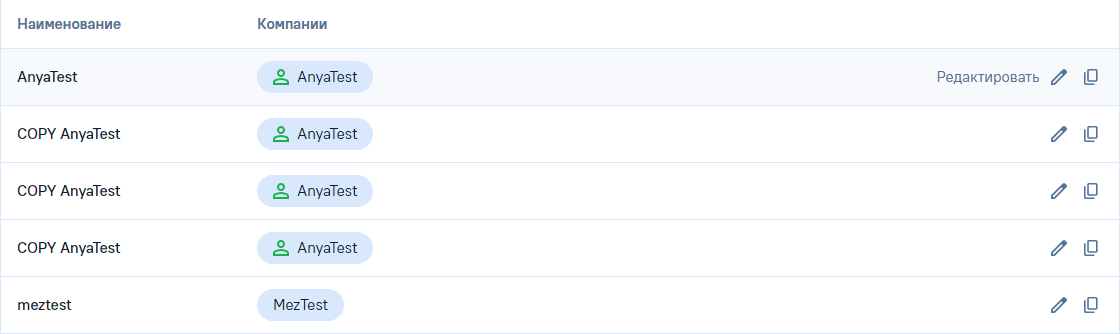
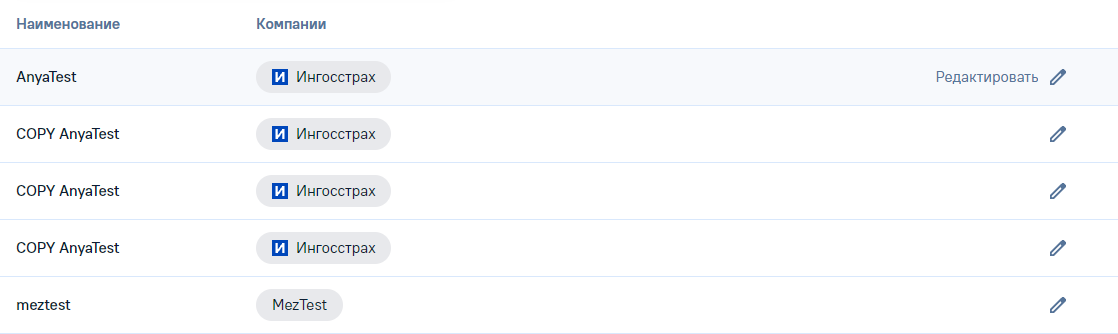
Такт 26: документы — «Статусы» после приёмки, правило глифов копирования
- page-statuses.md: решения такта 26, логотипы компания → бренд → файл,
  расхождения (мастера нет, курсор метки), замеры, кадры
- naming.md: нейтральная метка, изображение, align="start" в каноне;
  copy — буфер обмена, file_copy — дублирование сущности
- CLAUDE.md: оснастка ?values=demo; handoff.md, chat-protocol.md — такт 26

diff --git a/docs/page-statuses.md b/docs/page-statuses.md
@@ -1,19 +1,23 @@
 # Стенд «Статусы»
 
-Собран 2026-09-15, тактом 24. Роут `/statuses`, каркас — общий layout `admin`, пункт сайдбара
-«Администрирование → Статусы».
+Собран 2026-09-15 тактом 24, правлен тактом 26 после приёмки владельца. Роут `/statuses`, каркас —
+общий layout `admin`, пункт сайдбара «Администрирование → Статусы».
 
 Список статусных моделей справочника по канону типовой страницы-таблицы (`docs/naming.md`, «Такт 20:
-типовая страница-таблица админки (канон)» с правками тактов 21–24). Форма редактирования статусной
+типовая страница-таблица админки (канон)» с правками тактов 21–26). Форма редактирования статусной
 модели — блоки статусов, цвета, карта переходов, чек-лист компаний — отдельный стенд позже.
 
 | 1440 | 2560 |
 |---|---|
 | ![Статусы, 1440](page-statuses-1440.png) | ![Статусы, 2560](page-statuses-2560.png) |
 
-| Поиск «касса» | Наведение на строку |
+| Поиск «касс» | Наведение на строку |
 |---|---|
-| ![Поиск «касса»](page-statuses-search.png) | ![Наведение на строку](page-statuses-action-hover.png) |
+| ![Поиск «касс»](page-statuses-search.png) | ![Наведение на строку](page-statuses-action-hover.png) |
+
+| `?values=demo`, 1440 | `?values=demo`, 2560 |
+|---|---|
+| ![40 компаний, 1440](page-statuses-values-1440.png) | ![40 компаний, 2560](page-statuses-values-2560.png) |
 
 ## Источник
 
@@ -21,7 +25,7 @@
 |---|---|
 | состав страницы и данные | **прод**, страница «Статусы»: заголовок, «Добавить», таблица Наименование · Компании · «Изм»; компании столбиком, у части — логотип-картинка |
 | макет | **нет** — в Figma страница не нарисована |
-| вид | канон типовой страницы-таблицы; всё, что канон не покрывал, — решения владельца такта 24 и решения сборки ниже |
+| вид | канон типовой страницы-таблицы; всё, что канон не покрывал, — решения владельца тактов 24 и 26 и решения сборки ниже |
 
 Расхождения с продом дефектами не считаются: вид берётся из канона. В таблицу расхождений идут только
 расхождения с мастерами ДС и решения, принятые сборкой за отсутствием мастера.
@@ -32,17 +36,22 @@
 |---|---|---|---|
 | A | страница и шапка | `/statuses` на `admin.vue`, активный пункт «Статусы», крошки «Главная › Статусы», заголовок «Статусы». Шапка по канону: поиск 440 слева «Поиск по наименованию и компании», «Добавить» справа, одна ось, без счётчика | решение владельца; канон такта 20 |
 | B | колонки | Наименование · Компании · действия без заголовка (`TABLE_ROW_ACTIONS_COLUMN`). **Колонки Id нет** — у статусной модели нет идентификатора в системе | решение владельца; факт владельца (нет Id) |
-| C | наименование | блок идентичности **без эмблемы**: `TableCellIdentity` без `icon`, имя 15/20 medium | решение владельца; эмблема стала необязательной в компоненте |
-| D | компании | многозначная ячейка `TableCell variant="values"`: метки `Chip trailing="none"` инлайном с переносом, зазор 8, без потолка и без «+N»; порядок — как пришёл из данных | решение владельца, закрывает вопрос 34 вариантом (а); сознательное отклонение от референса Mobbin 6/6 |
-| D | логотипы | глиф Material Symbols 16 в ведущем слоте метки, окрашен рампой расширенной палитры; без логотипа — метка без иконки и без заглушки | решение владельца; палитра — по явному указанию, «различает, а не сообщает» |
+| C | наименование | блок идентичности **без эмблемы**: `TableCellIdentity` без `icon`, имя 15/20 medium. Вес имени принят глазом, без замера (такт 26) | решение владельца; эмблема стала необязательной в компоненте |
+| D | компании | многозначная ячейка `TableCell variant="values"`: метки инлайном с переносом, зазор 8, без потолка и без «+N»; порядок — как пришёл из данных | решение владельца, закрывает вопрос 34 вариантом (а); сознательное отклонение от референса Mobbin 6/6 |
+| D | метка компании | **`Chip variant="neutral"`**: подложка `muted`, текст `foreground`, наведения, роли и `tabindex` нет; геометрия и типографика мастера `badge` `747:2464` — 32, радиус 24, паддинг 16, 15/20 Regular (такт 26) | решение владельца |
+| D | мастер метки | статичный кандидат Атома `Badge` `913:8279` рассмотрен и отклонён: плашка поверх медиа (`Announcement`, `Slideshow`, `LightBox`), высота 16/24, кегль 10/13 вне шкалы кита. `ButtonTag` `256:3601` (`Tag`) — кнопка, прецедент такта 24 | решение владельца, такт 26 |
+| D | логотипы | **изображение 16×16** в ведущем месте метки, проп `image`, `object-fit: contain`, `alt=""`; до подписи 8. Компания без знака — метка без изображения. Демо-знаки — trace-logos.ru, раздел «Логотипы» ниже (такт 26) | решение владельца: на проде это логотипы, загруженные компаниями; привязка брендов — рекомендация чата |
 | D | пустой набор | пустая ячейка без «—», высота как у строки с одной меткой | решение сборки: прецедента пустой ячейки таблицы в «Моих осмотрах» нет |
 | E | поиск | подстрока имени модели **или** любой её компании, без регистра, до пагинации, смена запроса сбрасывает страницу; совпавшие метки не подсвечиваются | решение владельца; правила канона |
-| F | действия | подпись «Редактировать» → карандаш → **«Сделать копию»** (`copy`, тултип) в правом слоте; клик по строке = редактирование, обработчиков нет намеренно | решение владельца; «Сделать копию» — факт прода (форма) |
+| F | действия | **только карандаш**: подпись «Редактировать» по наведению → карандаш; правый слот 24×24 зарезервирован пустым. «Сделать копию» живёт в форме справочника. Клик по строке = редактирование, обработчиков нет намеренно | решение владельца, такт 26 (пункт F такта 24 снят); резерв слота — правило такта 22 |
 | G | подвал | `TableFooter`: «1 – 17 из 17» при размере 25 | канон |
-| H | оснастка | `?q=` и `?rows=` как на «Типах схем осмотров»; `?actions=demo` не нужен | решение владельца |
+| H | оснастка | `?q=` и `?rows=` как на «Типах схем осмотров»; `?values=demo` — у «Особого словаря» 40 компаний по кругу из всех 19 имён демо-данных (такт 26) | решение владельца |
+| I | выравнивание | в строке, которую растит «Компании», ячейки «Наименование» и действий стоят у первой линии меток: `TableCell align="start"`, высота 56 сохраняется | решение владельца, такт 26; канон `naming.md`, «E. Многозначная ячейка» |
 
-**Первая страница с реальным вторичным действием.** На «Типах схем осмотров» правый слот колонки
-действий заполнялся только в демо; здесь «Сделать копию» стоит у всех строк — это действие из формы прода.
+**Вторичного действия на списке нет.** Такт 24 ставил «Сделать копию» в правый слот колонки действий;
+такт 26 его снял: копия статусной модели — действие формы справочника. Правый слот остаётся
+зарезервированным, карандаш стоит на X 1339 — как на «Типах схем осмотров» в том же окне. Глиф для
+дублирования сущности на будущее — `file_copy` (`naming.md`, «Идентификатор со службой копирования»).
 
 ## Компоненты
 
@@ -61,50 +70,66 @@
 | `icon` необязателен | `table/TableCellIdentity.vue` | блок идентичности без эмблемы — только имя, без пустого бокса |
 | пункт «Статусы» подсвечивается | `layouts/admin.vue` | `:selected` по адресу `/statuses` |
 
-Витрина не менялась: `Chip trailing="none"` на ней не используется, API слотов у `Chip` только расширен.
+### Расширено тактом 26
+
+| Что | Где | Зачем |
+|---|---|---|
+| ось `variant: default \| neutral` | `chip/index.ts`, `chipVariants`; `chip/Chip.vue` | нейтральная метка значения: подложка `muted`, без наведения; `active`, `count`, `marker` и `trailing` у неё погашены, хвост всегда `none`. Заливки `default` переехали в compound по оси `variant` |
+| проп `image` | `chip/Chip.vue` | логотип 16×16 `object-contain`, `alt=""`; занимает место слота `leading` |
+| ось `align: stretch \| start` | `table/index.ts`, `tableCellVariants`; `table/TableCell.vue` | ячейка у первой линии многозначной: `self-start`, высота размера сохраняется |
+
+Витрина не менялась: примеры `Chip` на ней идут на `variant="default"` по умолчанию, API расширен без
+поломки.
 
 ## Демо-данные
 
 Семнадцать статусных моделей с прода; порядок строк и порядок компаний внутри строки сохранены — алфавит на
-проде не соблюдается, сортировка исказила бы данные. «·» — компания без логотипа.
+проде не соблюдается, сортировка исказила бы данные. Названия моделей — с прода. Двенадцать компаний со
+знаком переименованы тактом 26 в бренды своих знаков. «·» — компания без знака.
 
 | # | Статусная модель | Компании |
 |---|---|---|
-| 1 | AnyaTest | AnyaTest |
-| 2–4 | COPY AnyaTest ×3 | AnyaTest |
+| 1 | AnyaTest | Ингосстрах |
+| 2–4 | COPY AnyaTest ×3 | Ингосстрах |
 | 5 | meztest | MezTest· |
-| 6 | SavelyTest | Касса, Сбербанк страхование, Тестовая компания 2 |
-| 7 | testSafontev | TestKasko |
-| 8 | testSafontev123 | TestKasko |
-| 9 | VIEWAPP eng | Касса |
-| 10 | Базовые статусы для Кассы | Касса |
-| 11 | Домклик | Домклик |
-| 12 | Особый словарь | ВТБ Страхование, Касса, РВИО·, Сбербанк страхование, Тестовая компания 2, Уралсиб, Энергогарант, комп·, 1 Схема·, ViktorTEST· |
-| 13 | Райффайзенбанк | Denis, Еж, Золото Толозы· |
-| 14 | тест | тест |
+| 6 | SavelyTest | Альфа Страхование, Сбер, Согаз |
+| 7 | testSafontev | Т-Страхование |
+| 8 | testSafontev123 | Т-Страхование |
+| 9 | VIEWAPP eng | Альфа Страхование |
+| 10 | Базовые статусы для Кассы | Альфа Страхование |
+| 11 | Домклик | ДомКлик |
+| 12 | Особый словарь | ВТБ, Альфа Страхование, РВИО·, Сбер, Согаз, УралСиб, Совкомбанк, комп·, 1 Схема·, ViktorTEST· |
+| 13 | Райффайзенбанк | Райффайзен, Самолёт, Золото Толозы· |
+| 14 | тест | Брусника |
 | 15 | тест1 | — пусто |
-| 16 | эвелина кастом | AnyaTest |
-| 17 | эвелина текст | тестовая компания эвелина·, AnyaTest, Касса |
+| 16 | эвелина кастом | Ингосстрах |
+| 17 | эвелина текст | тестовая компания эвелина·, Ингосстрах, Альфа Страхование |
 
-### Логотипы — соответствие компания → глиф → рампа
+### Логотипы — компания → бренд → файл
 
-**Демо-данные, не правило.** На проде логотип — картинка; здесь заглушка из уже заведённых глифов набора,
-без новых выгрузок. Рампы розданы по кругу 01…06 — цвет только различает компании.
+Разделы каталога — «Страхование», «Банки», «Девелоперы и недвижимость»: по смыслу клиентов Рососмотра
+(решение владельца). Привязка компания → бренд — рекомендация чата, сверена с каталогом: все двенадцать
+файлов отвечают 200, `viewBox` квадратный. Читаемость в 16×16 проверена на зуме ×4 — замен нет.
 
-| Компания | Глиф | Рампа |
-|---|---|---|
-| AnyaTest | `person` | `palette-01` |
-| Касса | `payments` | `palette-02` |
-| Сбербанк страхование | `admin` | `palette-03` |
-| Тестовая компания 2 | `layers` | `palette-04` |
-| TestKasko | `car` | `palette-05` |
-| Домклик | `home` | `palette-06` |
-| ВТБ Страхование | `monitoring` | `palette-01` |
-| Уралсиб | `account-tree` | `palette-02` |
-| Энергогарант | `settings` | `palette-03` |
-| Denis | `lock` | `palette-04` |
-| Еж | `asterisk` | `palette-05` |
-| тест | `article` | `palette-06` |
+| Компания в данных прода | Бренд | slug | Файл |
+|---|---|---|---|
+| AnyaTest | Ингосстрах | `ingosstrakh` | `public/demo/logos/ingosstrakh.svg` |
+| Касса | Альфа Страхование | `alfa-insurance` | `public/demo/logos/alfa-insurance.svg` |
+| Сбербанк страхование | Сбер | `sber` | `public/demo/logos/sber.svg` |
+| Тестовая компания 2 | Согаз | `sogaz` | `public/demo/logos/sogaz.svg` |
+| TestKasko | Т-Страхование | `t-bank-insurance` | `public/demo/logos/t-bank-insurance.svg` |
+| Домклик | ДомКлик | `domclick` | `public/demo/logos/domclick.svg` |
+| ВТБ Страхование | ВТБ | `vtb` | `public/demo/logos/vtb.svg` |
+| Уралсиб | УралСиб | `uralsib` | `public/demo/logos/uralsib.svg` |
+| Энергогарант | Совкомбанк | `sovcombank` | `public/demo/logos/sovcombank.svg` |
+| Denis | Райффайзен | `raiffeisen` | `public/demo/logos/raiffeisen.svg` |
+| Еж | Самолёт | `samolet` | `public/demo/logos/samolet.svg` |
+| тест | Брусника | `brusnika` | `public/demo/logos/brusnika.svg` |
+
+**Знаки принадлежат владельцам, демо-данные стенда; в прод и витрину не переносить.** Источник —
+trace-logos.ru (каталог `https://trace-logos.ru/logos.json`), выгрузка 2026-09-15. Исключены по факту
+каталога: «Сбер Бизнес» и «Почта Банк» — вместо знака `placeholder.svg`; «Сравни» — агрегатор, файл 150 КБ;
+`dom-rf-bank-full` и `vtb-capital-full` — горизонтальные, соотношение 5.7 и 6.8.
 
 ## Таблица расхождений
 
@@ -112,34 +137,44 @@
 |---|---|---|---|
 | **таблица распухала вбок, метки не переносились** | дефект компонента, исправлен | контейнер `Table` стоит на `min-w-max` и считал ячейку с переносом одной строкой: колонка «Компании» 1387 при окне 1440, карандаш на X 2047 — за экраном | заведён `TableCell variant="values"` с `[contain:inline-size]`: колонка 678, карандаш на X 1339 |
 | **метка без действия откликалась на наведение** | дефект компонента, исправлен | у `Chip` наведение стояло на пилюле всегда, в том числе при `trailing="none"` | наведение переехало в ось `interactive`; у метки его нет — фон при наведении не меняется |
-| **у метки нет слота под ведущую иконку** | дыра системы, закрыта | у мастера `badge` `747:2464` только маркер-точка; слот `icon` у `Chip` — хвостовой | добавлен слот `leading`; от подписи 8 — корневой зазор мастера |
-| **метка значения — `Chip`, а не `Tag`** | решение сборки | `Tag` (`ButtonTag` `256:3601`) — `<button>` с `aria-pressed`, интерактивный; `Chip` с `trailing="none"` — без роли и без действия | `Chip trailing="none"` |
+| **мастера нейтральной метки нет** | решение владельца | статичная метка Атома — `Badge` `913:8279`: плашка поверх медиа, 16/24, 10/13; `ButtonTag` `256:3601` — `<button>` с `aria-pressed` | `Chip variant="neutral"` на геометрии мастера `747:2464` (такт 26); до него — `Chip trailing="none"` (такт 24) |
+| **у метки нет места под логотип** | дыра системы, закрыта | у мастера `badge` `747:2464` только маркер-точка; слот `icon` у `Chip` — хвостовой | такт 24 — слот `leading`; такт 26 — проп `image` 16×16; от подписи 8 — корневой зазор мастера |
+| **метка наследует курсор строки** | решение сборки | задание: «курсор по умолчанию». Строка — цель клика, `cursor: pointer`; собственный `cursor: default` на метке разрывал бы цель: курсор менялся бы над меткой внутри кликабельной строки | своего курсора у метки нет; над меткой `pointer` в покое и при наведении, как над строкой |
 | **пустой набор компаний — пустая ячейка без «—»** | решение сборки | прецедента пустой ячейки таблицы в «Моих осмотрах» нет | ячейка пустая, высота 56 — как у строки с одной меткой |
 | **ширина «Наименования» 240** | решение сборки | самое длинное имя «Базовые статусы для Кассы» — 192.4 + паддинги 32 = 224 | 240: имя не обрезается, есть воздух |
-| **«Особый словарь» при 1440 — три линии меток, не две** | решение владельца по замеру | метки в сумме 1283; две линии требуют ячейку от 796, а на 1440 при «Наименовании» от 224 и действиях 200 остаётся 678. При 2560 — одна линия | принято: три линии, «Наименование» 240 без обрезки имён |
+| **«Особый словарь» при 1440 — две линии меток** | факт замера | такт 24: три линии (метки в сумме 1283, ячейка 678), принято владельцем по замеру. С брендами метки короче — две линии, строка 97. При 2560 — одна линия | принято тактом 24; число линий обновлено |
 | **подвал при пустом результате — «1 – 0 из 0»** | дефект компонента, в долге | `TableFooter` при нуле записей начинает диапазон с 1, пустая таблица без сообщения | строка в `design-debt.md` (такт 24): пустое состояние через `Empty`; то же на «Типах схем осмотров» |
 
 ## Проверено
 
-Курсор и снимки — headless Chrome через DevTools Protocol, окно 1440, как в тактах 20–23.
+Такт 26. Курсор, замеры и снимки — headless Chrome через DevTools Protocol, окно 1440, как в тактах 20–24;
+наведение — реальным движением курсора (`Input.dispatchMouseEvent`).
 
 | Проверка | Результат |
 |---|---|
-| шапка | поле 440, отступ слева 17, у «Добавить» справа 17, дельта центров **0px**, «Найдено» нет |
-| сайдбар и крошки | активный пункт «Статусы»; крошки «Главная › Статусы»; заголовок «Статусы» |
-| колонки | Наименование 240 · Компании 678 · действия 200 без текста, `aria-label` «Действия»; заголовки по 48 |
 | строки и подвал | 17 строк, «1 – 17 из 17»; строка `cursor: pointer` |
-| наименование | 15/20 weight 500 `#0e1e33`, эмблемы нет |
-| метки | высота 32, зазор 8 по горизонтали и вертикали; иконка логотипа 16, до подписи 8, цвет рампы (`#1bb149`, `#1192bb`, `#806aea`…); без логотипа — «РВИО», «комп», «1 Схема», «ViktorTEST» без иконки |
-| метка на наведении | фон `#d9e8fc` не меняется; класса наведения нет |
-| высота строк | одна метка — 56 (строка 57 с разделителем); «SavelyTest», три метки — 56; «тест1», пусто — 56, ячейка без детей; «Особый словарь» — 136, три линии |
-| колонка действий | X глифа карандаша **1339** — как на «Типах схем осмотров» в том же окне; правее через 8 — «Сделать копию» 24×24, тултип открывается; подпись «Редактировать» по наведению слева от карандаша, до глифа 12; колонка 200 |
-| поиск «касса» | 5 строк: SavelyTest, VIEWAPP eng, Базовые статусы для Кассы, Особый словарь, эвелина текст; «1 – 5 из 5» |
-| поиск «anya» | 6 строк: AnyaTest, COPY AnyaTest ×3, эвелина кастом, эвелина текст; «1 – 6 из 6» |
-| сброс страницы | размер 5, вторая страница «6 – 10 из 17» → запрос «тест» → «1 – 5 из 5» |
-| 2560 | «Особый словарь» — одна линия |
-| `/compare` | 114 иконок, 361 текстовый узел, провалов нет — глифы-заглушки взяты из набора, в реестр не добавлялись |
-| консоль | ошибок нет |
+| колонки | Наименование 240 · Компании 678 · действия 200 |
+| метка: шрифт подписи | computed `"PT Root UI"`, 15px, 20px, 400 |
+| метка: вид | высота 32, радиус 24, паддинг 16; фон `rgb(232, 233, 236)` = значение `--muted`; `role` и `tabindex` нет |
+| метка при реальном наведении | фон `rgb(232, 233, 236)` и курсор `pointer` — те же, что в покое; на наведённой строке (фон строки `rgb(247, 249, 252)`) метка сохраняет фон |
+| изображение | 24 изображения на странице, все 16×16, `object-fit: contain`, `alt=""`; до изображения 16 от края метки, до подписи 8; незагруженных нет |
+| файлы знаков | 12 запросов `/demo/logos/*.svg`, все 200 |
+| компании без знака | MezTest, РВИО, комп, 1 Схема, ViktorTEST, Золото Толозы, тестовая компания эвелина — `<img>` в метке нет |
+| колонка действий | в каждой строке один глиф — карандаш, X **1339**; вторичный слот 24×24, детей нет; по наведению на строку подпись «Редактировать» видима |
+| однострочная строка (AnyaTest) | высота 56 (57 с разделителем), ячейки 56 от верха строки; центры имени, метки и карандаша — **28** от верха: как до такта |
+| `?values=demo`, 1440 | «Особый словарь»: 40 меток, 9 линий, зазор 8 по горизонтали и по вертикали, «+N» нет; строка 377. Центр имени **28**, центр первой метки **28**, центр карандаша при наведении **28** — дельта 0 |
+| `?values=demo`, 2560 | 40 меток, 3 линии, строка 137; центры имени, первой метки и карандаша — **28** |
+| поиск «касс» | 1 строка — «Базовые статусы для Кассы», «1 – 1 из 1» |
+| поиск «anya» | 4 строки: AnyaTest, COPY AnyaTest ×3; «1 – 4 из 4» |
+| поиск «ингосстрах» | 6 строк: AnyaTest, COPY AnyaTest ×3, эвелина кастом, эвелина текст; «1 – 6 из 6» |
+| поиск «сбер» | 2 строки: SavelyTest, Особый словарь; «1 – 2 из 2» |
+| поиск «касса» | 0 строк: слово «Кассы» подстроку «касса» не содержит. Число 1 в задании — ошибка счёта; кадр поиска снят на «касс» |
+| hex, px, палитра | в `statuses.vue` и изменённых компонентах значений вне токенов нет; `palette-0` на стенде нет |
+| `/compare` | 114 иконок, 361 текстовый узел, провалов нет |
+| консоль и сервер | ошибок нет |
+
+Выравнивание по первой линии держалось и до такта: у ячейки с заданной высотой `align-self: stretch`
+работает как прижатие к верху строки. Ось `align="start"` делает это положение явным правилом ячейки.
 
 ## Референсы Mobbin
 

diff --git a/docs/naming.md b/docs/naming.md
@@ -765,10 +765,11 @@ rososmotr своей поверхности под окно нет, и роль 
 
 | Правило | Провенанс |
 |---|---|
-| **Значения — метки инлайном с переносом:** `TableCell variant="values"`, внутри `Chip trailing="none"`, зазор 8 по обеим осям, без потолка и без «+N». Строка растёт вместе с ячейкой; пустой набор — пустая ячейка без «—» высотой строки с одной меткой | владелец, такт 24; **отклонение от референса Mobbin 6/6** («одна строка», перенос 0/6): нужно видеть весь набор сразу — на проде у 12 строк из 17 одна компания, перенос нужен редко. Пустая ячейка без «—» — решение сборки (прецедента нет) |
+| **Значения — метки инлайном с переносом:** `TableCell variant="values"`, внутри `Chip variant="neutral"` (такт 26; до него — `Chip trailing="none"`), зазор 8 по обеим осям, без потолка и без «+N». Строка растёт вместе с ячейкой; пустой набор — пустая ячейка без «—» высотой строки с одной меткой | владелец, такт 24; **отклонение от референса Mobbin 6/6** («одна строка», перенос 0/6): нужно видеть весь набор сразу — на проде у 12 строк из 17 одна компания, перенос нужен редко. Пустая ячейка без «—» — решение сборки (прецедента нет) |
 | **Порядок значений — как пришёл из данных** | владелец, такт 24: на проде алфавит не соблюдается, сортировка исказила бы набор |
-| **Метка значения неинтерактивна:** `Chip trailing="none"` — без роли, без действия и без наведения; `Tag` не годится — это кнопка | решение сборки, такт 24 |
-| **Ведущая иконка метки — слот `leading`**, глиф 16, от подписи 8. Логотипы-заглушки красятся рампой расширенной палитры: цвет различает значения, а не сообщает | владелец, такт 24; палитра — по явному указанию |
+| **Метка значения — `Chip variant="neutral"`:** подложка `muted`, текст `foreground`, наведения, роли и `tabindex` нет; `active`, `count`, `marker` и `trailing` погашены. Геометрия и типографика — мастер `badge` `747:2464`: 32, радиус 24, паддинг 16, 15/20 Regular. Собственного курсора нет — метка наследует курсор кликабельной строки | владелец, такт 26; мастера статичной метки нет — кандидат Атома `Badge` `913:8279` рассмотрен и отклонён владельцем (плашка поверх медиа, 16/24, 10/13); `Tag` (`ButtonTag` `256:3601`) — кнопка, прецедент такта 24. Курсор — решение сборки |
+| **Ведущий знак метки — изображение 16×16** через проп `image`, `object-fit: contain`, `alt=""` (имя рядом текстом), от подписи 8. Значение без знака — метка без изображения. Слот `leading` остаётся для иконки | владелец, такт 26: на проде это логотипы, загруженные компаниями |
+| **Соседние ячейки стоят у первой линии меток:** в строке с многозначной ячейкой «Наименование» и действия — `TableCell align="start"`, высота размера сохраняется. Центр имени, центр карандаша и центр первой линии меток совпадают — 28 от верха строки при размере 56 | владелец, такт 26 |
 | **Поиск страницы ищет и по значениям** — см. «Живой поиск» выше | владелец, такт 24 |
 
 ### Идентификатор со службой копирования
@@ -781,6 +782,7 @@ rososmotr своей поверхности под окно нет, и роль 
 | **Любое значение-идентификатор идёт со службой копирования** | ID осмотра, номер оферты, номер договора. Идентификатор существует затем, чтобы его передали дальше; переписывание его глазами — дефект интерфейса, а не особенность экрана |
 | **Кнопка приезжает из компонента, а не собирается на странице** | иначе она расходится по страницам копипастом и через полгода у одного ID `ghost`, у другого `service`, у третьего её нет вовсе. Ровно это и было до такта 11: в карточке стоял `ghost`, в таблице — ничего |
 | **Глиф и тип кнопки фиксированы**: `IconButton variant="service"`, `copy` 16 | служебное действие рядом со значением не красится акцентом — то же правило, что у подсказки и обновления списка (такт 7) |
+| **Глиф `copy` (Material `content_copy`) — только копирование в буфер обмена** (`CopyableId`). Дублирование сущности («Сделать копию») — глиф `file_copy`; он заводится в `icons.ts` при первом употреблении | два действия с одним глифом читаются как одно: «скопировать значение» и «создать новую сущность» ведут в разные места. Решение владельца, такт 26 |
 | **В буфер уходит значение, а не подпись** | у ID в карточке отрисовано «ID 186 243», копируется `186 243`: подпись — это ярлык поля, а не часть идентификатора |
 | **Приглушённый цвет значения не освобождает от кнопки** | `text-muted-foreground` красит текст, не убирает роль. `Id` на «Типы схем осмотров» служебный и приглушённый — и всё равно идентификатор: колонка получила `CopyableId` наравне с «ID осмотра» в «Мои осмотры» |
 
@@ -851,7 +853,8 @@ rososmotr своей поверхности под окно нет, и роль 
 | **Расширенная палитра — только по явному указанию** | «похоже по цвету» не основание: зелёная `palette-01` стоит рядом с `success`, и перепутать легко |
 | **Колонка действий строки — `TableRowActions` в `table/`** | слева направо: `TableRowAction` (подпись и карандаш, всегда) → вторичный слот 24×24 через 8, зарезервированный всегда — пустой, иконка действия или кебаб. Порядок кебаба — `TABLE_ROW_ACTION_ORDER`, ширина колонки — `TABLE_ROW_ACTIONS_COLUMN`, обе константы в `table/index.ts`. Такт 20, упрощён тактом 21, порядок исправлен тактом 22 |
 | **Многозначная ячейка — `TableCell variant="values"`** | перенос, зазор 8, высота растёт от минимума размера; `[contain:inline-size]` обязателен — контейнер таблицы на `min-w-max` иначе считает ячейку одной строкой и распухает вбок. Такт 24 |
-| **Метка значения — `Chip trailing="none"` со слотом `leading`** | ведущая иконка 16 на корне пилюли, зазор 8; наведение у `Chip` — только при `trailing` не `none` (ось `interactive` в `chipVariants`). Такт 24 |
+| **Метка значения — `Chip variant="neutral"`, знак — проп `image`** | подложка `muted`, наведения и роли нет, хвост всегда `none`; изображение 16×16 `object-contain` на корне пилюли, зазор 8. Слот `leading` — для иконки; наведение у `default` — только при `trailing` не `none` (ось `interactive` в `chipVariants`). Такты 24, 26 |
+| **Ячейка у первой линии многозначной — `TableCell align="start"`** | прижата к верху строки, высота размера сохраняется. Такт 26 |
 | **Эмблема `TableCellIdentity` необязательна** | без `icon` блок — только имя. Такт 24 |
 | **`Popover` закрывается кликом снаружи и по Esc** | управление `v-model:open`: плашка просит закрыться событием, видимость держит потребитель. Клик по триггеру в якоре плашки снаружи не считается. Без `open` плашка статична. Владелец, такт 21; до него закрытия не было ни у одного потребителя — дефект компонента, не ловушка Reka |
 | **Группы в плашке разделяет волосяная линия; опасное действие — последней группой** | линия 1px `--border-neutral`, отступы 4 сверху и снизу вместо зазора 8 мастера `ListGroup` `542:4969`: при пункте около 40 промежуток внутри группы около 20, между группами около 28 — шаг ×1.4, а группировка читается от ×1.5–2. Линию несёт `SelectGroup`, идущая следом за другой; `SelectContent` гасит свой зазор, когда в нём группы. Владелец, такт 21 — отклонение от мастера, `figma-fixes.md` |

diff --git a/docs/handoff.md b/docs/handoff.md
@@ -16,7 +16,7 @@
 **Перенос Атома закончен, все девять волн приняты. Этап 2 — обогащение — закрыт целиком.**
 Идёт **тест кита на живой странице**: разбор ниже, история этапов — дальше по документу.
 
-## Где мы сейчас: тест кита на живых страницах завершён, такты 1–24 закрыты
+## Где мы сейчас: тест кита на живых страницах завершён, такты 1–24 и 26 закрыты
 
 Перенос и обогащение позади. **Тест кита на живых страницах закрыт.** Две страницы:
 
@@ -63,6 +63,7 @@
 | **22** — порядок слотов в колонке действий | Типы схем осмотров | дефект передачи решения в такте 21 (ошибка чата): слоты стояли [вторичное] [карандаш], подпись только без вторичных. Исправлено по решению владельца: слева направо подпись «Редактировать» → карандаш → вторичный слот; подпись по наведению всегда; тултип только у иконки вторичного слота. Вторичный слот резервируется всегда, пустой без объекта (рекомендация чата, принято владельцем); ширина колонки — `TABLE_ROW_ACTIONS_COLUMN` = 200, одна на всю админку. `TableRowAction` не менялся. Проверено headless: X карандаша 1339 в дефолте и демо, правее карандаша 32, подпись в трёх демо-строках, кебаб за линией |
 | **23** — колонка действий без заголовка | Типы схем осмотров | решение владельца: у колонки действий заголовка нет — текст висел над зарезервированным вторичным слотом. Колонка и ширина 200 остались, `TableHead` пустой той же высоты, название в `aria-label`; референс Mobbin 4/5. В `design-debt.md` строка `Popover` актуализирована: контейнер без Reka, закрытие есть с такта 21, долг — фокус, ARIA, портал, края окна; закрывается тактом «доступность всплывающих» вместе с `Dialog` |
 | **24** — стенд «Статусы» | Статусы | третья страница: `/statuses` по канону типовой страницы-таблицы, источник — прод без макета. Без Id и без эмблемы — у статусной модели их нет (канон стал условным). Многозначная ячейка «Компании» закрыла вопрос 34 вариантом (а): `TableCell variant="values"` с метками `Chip trailing="none"` инлайном с переносом, логотипы-заглушки — глифы 16 на рампах палитры. Поиск по имени модели и по компаниям. Первое реальное вторичное действие — «Сделать копию». Правки кита: вариант `values` у `TableCell` (с `[contain:inline-size]` — без него таблица распухала вбок), слот `leading` и ось `interactive` у `Chip`, необязательная эмблема у `TableCellIdentity`. «Особый словарь» при 1440 — три линии меток, не две (две требуют ячейку от 796, остаётся 678): принято владельцем по замеру. Разбор — `page-statuses.md` |
+| **26** — правки «Статусов» после приёмки | Статусы | решения владельца. Колонка действий — только карандаш: «Сделать копию» живёт в форме справочника, правый слот зарезервирован пустым. Метка компании — `Chip variant="neutral"` (подложка `muted`, без наведения, `active`/`count`/`marker`/`trailing` погашены); мастера статичной метки нет — кандидат Атома `Badge` `913:8279` отклонён владельцем (плашка поверх медиа, 16/24, 10/13). Логотип — проп `image` 16×16 `object-contain`; демо-знаки двенадцати брендов с trace-logos.ru в `public/demo/logos/`, компании переименованы в эти бренды, глифы-заглушки и рампы сняты. Ячейки имени и действий у первой линии меток — ось `align="start"` у `TableCell` (положение держалось и до такта, теперь это правило): центры 28 при 40 метках в 9 линиях. Оснастка `?values=demo`. В `naming.md` — правило глифов `copy` / `file_copy`. Метка наследует курсор кликабельной строки — решение сборки. Поиск «касса» даёт 0 («Кассы» подстроку не содержит) — кадр на «касс». `/compare` 114 / 361 без провалов. Разбор — `page-statuses.md` |
 
 ### Такт 20 закрыт: паттерн закреплён
 

diff --git a/docs/chat-protocol.md b/docs/chat-protocol.md
@@ -134,7 +134,7 @@
 
 ---
 
-## Состояние проекта (актуально на 2026-09-15, после тактов 19–24)
+## Состояние проекта (актуально на 2026-09-15, после тактов 19–24 и 26)
 
 ### Проект
 
@@ -160,7 +160,7 @@
 |---|---|---|---|
 | «Мои осмотры» | `/my-inspections` | 1–7, 11 | первая приёмочная площадка: карточный и табличный вид, свой каркас |
 | «Типы схем осмотров» | `/insure-types` | 8–23 | каркас `admin.vue`, образец канона типовой страницы-таблицы |
-| «Статусы» | `/statuses` | 24 | второй справочник по канону, многозначная ячейка |
+| «Статусы» | `/statuses` | 24, 26 | второй справочник по канону, многозначная ячейка, нейтральные метки с логотипами |
 
 Такты 1–18 — история по «Моим осмотрам» и «Типам схем осмотров»:
 пагинация и сайдбар по мастерам кита 1, `CopyableId`, ховеры и области
@@ -221,6 +221,24 @@
 - **Первое реальное вторичное действие** — «Сделать копию».
 - «Особый словарь» на 1440 — **три линии меток**: две требуют ячейку от
   796, остаётся 678; **принято владельцем по замеру**.
+
+### Такт 26 — «Статусы» после приёмки
+
+Решения владельца, разбор — `docs/page-statuses.md`.
+
+- **Колонка действий — только карандаш.** «Сделать копию» живёт в форме
+  справочника; правый слот зарезервирован пустым. Глиф дублирования
+  сущности на будущее — `file_copy`, `copy` — только буфер обмена
+  (`naming.md`).
+- **Метка компании — `Chip variant="neutral"`**: подложка `muted`, без
+  наведения и роли. Мастера нет: кандидат Атома `Badge` `913:8279`
+  отклонён владельцем (плашка поверх медиа, 16/24, 10/13).
+- **Логотип — проп `image` 16×16**, `object-contain`. Демо-знаки
+  двенадцати брендов (страховщики, банки, застройщики) с trace-logos.ru,
+  компании переименованы в эти бренды; в прод и витрину не переносятся.
+- **Имя и карандаш у первой линии меток** — `TableCell align="start"`;
+  оснастка `?values=demo` (40 меток, 9 линий на 1440, центры 28).
+- «Особый словарь» на 1440 с брендами — две линии.
 
 ### Второй конвейер
 

diff --git a/CLAUDE.md b/CLAUDE.md
@@ -355,7 +355,7 @@ Material рисует глиф с полями внутри квадрата 960
 Headless-браузер снимает страницу **от начала документа**: кликать и прокручивать он не
 умеет. Поэтому состояния для снимков задаются параметрами адреса, и они помечены в коде как
 оснастка приёмки: `?open=`, `?only=`, `?view=`, `?filters=`,
-`?selected=`, `?rows=`, `?scroll=`, `?q=`, `?actions=demo`. В продукт они не идут.
+`?selected=`, `?rows=`, `?scroll=`, `?q=`, `?actions=demo`, `?values=demo`. В продукт они не идут.
 
 ### Класс снаружи мержится, а не приклеивается
 
